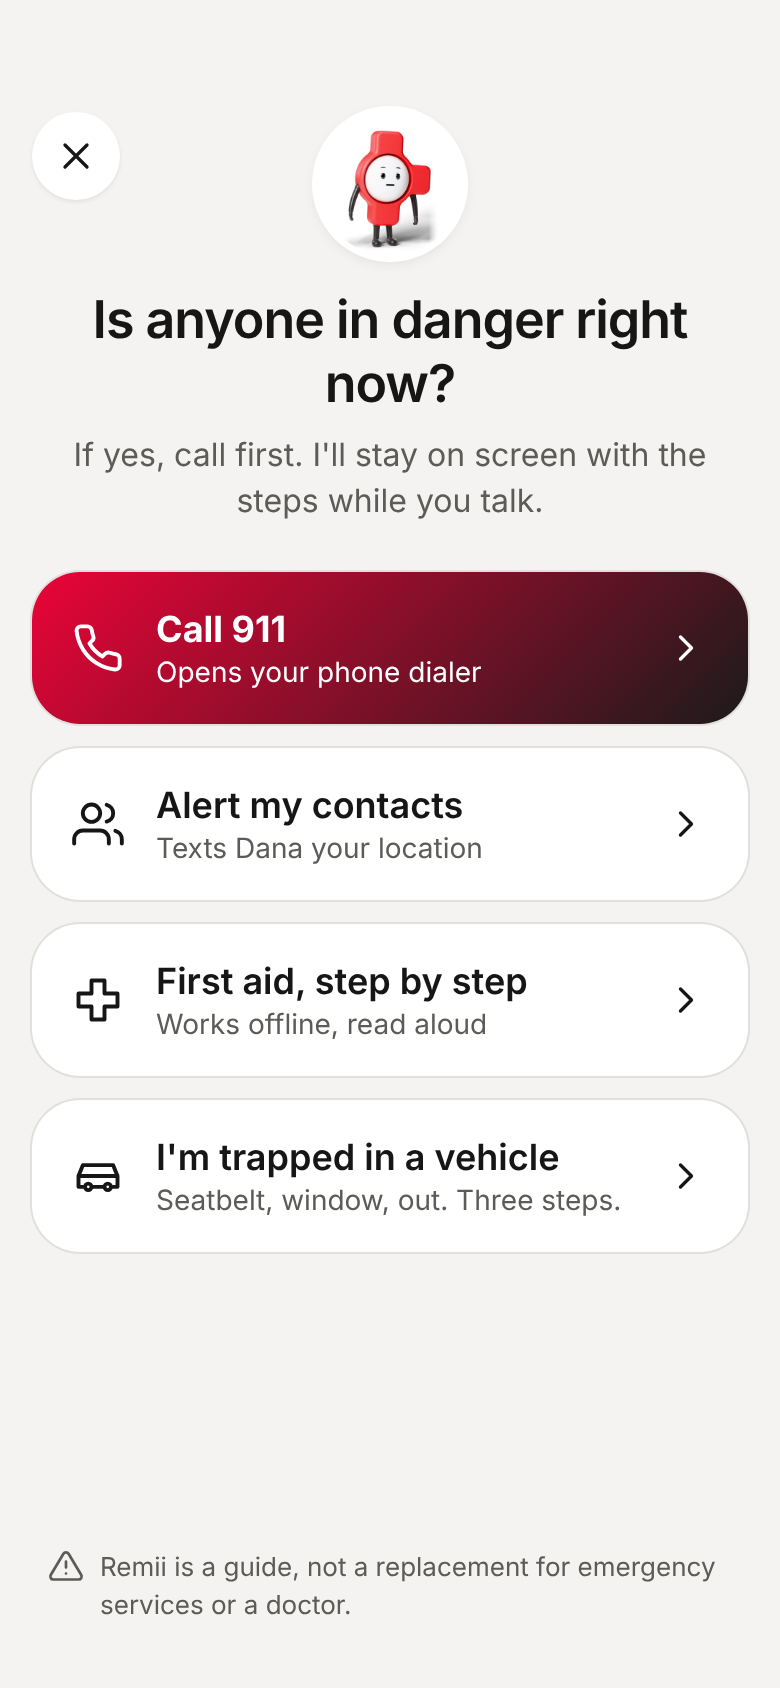
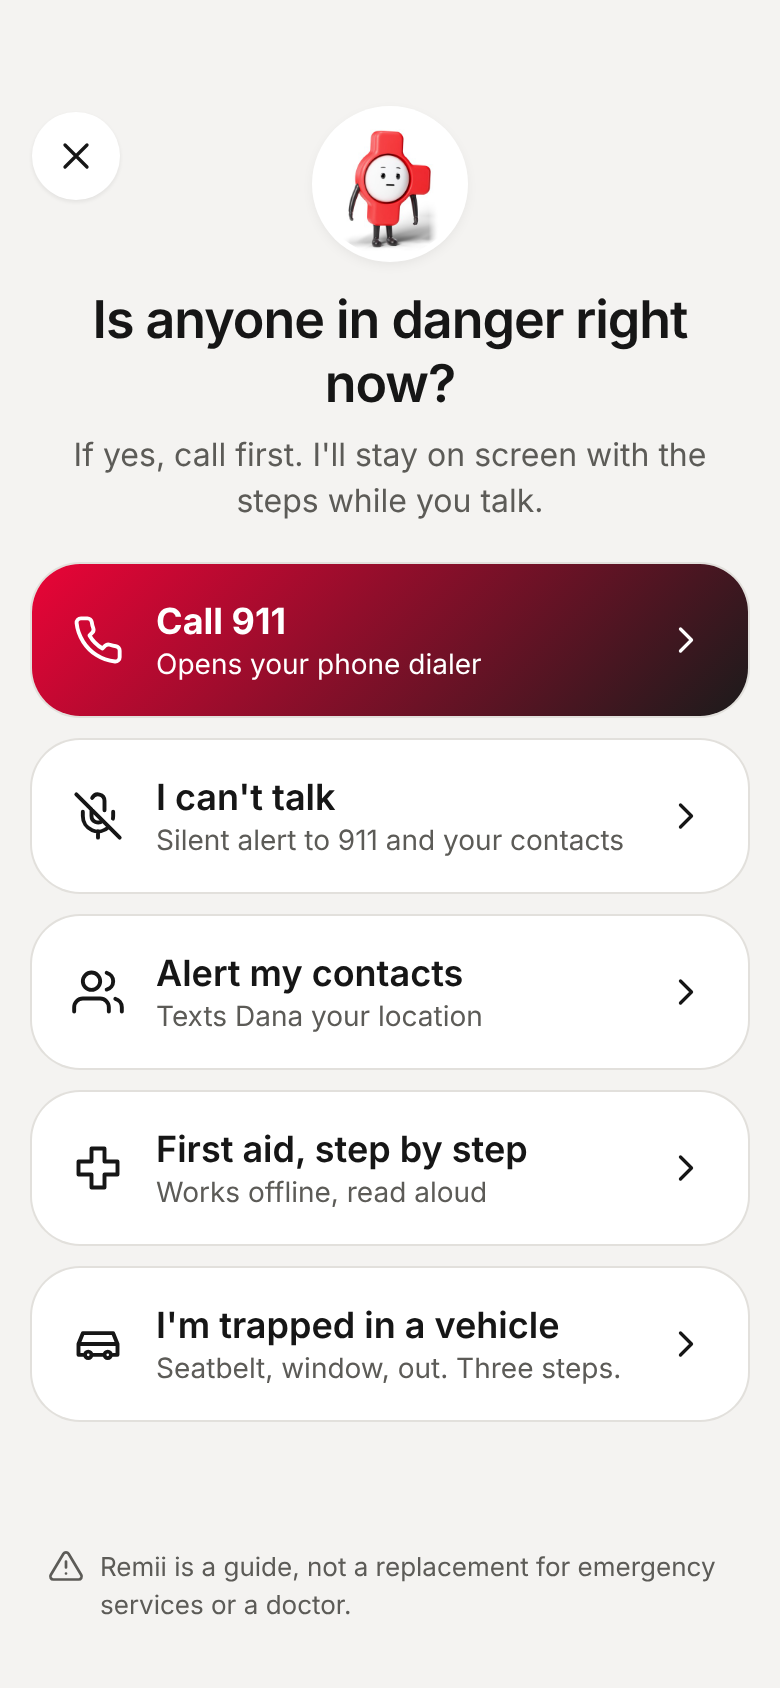
Add the "I can't talk" silent alert: design references, routes and plan
- docs/screens: SilentAlert, SilentChat, WatchSilent, WatchSilentSent, and
  the updated Emergency and WatchCall screens
- routes /sos/silent and /sos/silent/active as Phase 9 placeholders
- docs/build-plan.md: how the silent alert works, the rules it must keep and
  the open questions for RapidSOS
- docs/sitemap.md, TODO.md: new screens and the RapidSOS question

Claude-Session: https://claude.ai/code/session_01XE7msgpX1UMo2XFQv2K8ha

diff --git a/src/constants/routes.ts b/src/constants/routes.ts
@@ -37,6 +37,8 @@ export const APP_ROUTES: readonly AppRoute[] = [
   { route: '/sos', title: 'Emergency SOS', mockup: "docs/screens/Emergency.png", phase: 2 },
   { route: '/sos/guide/[id]', title: 'Emergency steps', mockup: null, phase: 2 },
   { route: '/sos/alert-sent', title: 'Contacts alerted', mockup: null, phase: 2 },
+  { route: '/sos/silent', title: 'Silent alert', mockup: "docs/screens/SilentAlert.png", phase: 9 },
+  { route: '/sos/silent/active', title: 'Silent alert: status and chat', mockup: "docs/screens/SilentChat.png", phase: 9 },
   { route: '/welcome', title: 'Welcome', mockup: null, phase: 6 },
   { route: '/welcome/permissions', title: 'Permissions', mockup: null, phase: 6 },
   { route: '/welcome/model', title: 'Offline setup', mockup: null, phase: 1 },

diff --git a/src/app/sos/silent/active.tsx b/src/app/sos/silent/active.tsx
@@ -1,0 +1,12 @@
+import { PlaceholderScreen } from '@/components/placeholder-screen';
+
+export default function SosSilentActiveScreen() {
+  return (
+    <PlaceholderScreen
+      title="Silent alert: status and chat"
+      route="/sos/silent/active"
+      mockup="docs/screens/SilentChat.png"
+      phase={9}
+    />
+  );
+}

diff --git a/src/app/sos/silent/index.tsx b/src/app/sos/silent/index.tsx
@@ -1,0 +1,12 @@
+import { PlaceholderScreen } from '@/components/placeholder-screen';
+
+export default function SosSilentScreen() {
+  return (
+    <PlaceholderScreen
+      title="Silent alert"
+      route="/sos/silent"
+      mockup="docs/screens/SilentAlert.png"
+      phase={9}
+    />
+  );
+}

diff --git a/docs/build-plan.md b/docs/build-plan.md
@@ -138,6 +138,63 @@ alongside Phase 5 or 6 if the store access arrives early.
 Until Phase 9 ships, nothing in the app, the store listing or remii.ai may say
 or imply that Remii sends data to 911.
 
+### "I can't talk": the silent alert (part of Phase 9)
+
+Designed 21 November 2026. Screens: `SilentAlert`, `SilentChat`, `WatchSilent`
+and `WatchSilentSent` in `docs/screens/`, plus a new row on Emergency SOS and
+on the watch's Call list.
+
+**What the person does**
+
+1. Opens SOS and taps "I can't talk", the second row, directly under Call 911.
+2. Sees exactly what will be sent: live location, name and phone, medical
+   notes, and which contacts get a text. Can tap a reason ("I'm hurt",
+   "Someone is hurting me", "Break-in", "Fire"). The reason is optional.
+3. Holds the button for 2 seconds. The hold is there to stop pocket presses.
+4. Lands on a status screen with four steps, each ticked only when it has
+   really happened: alert sent, contacts texted, a safety agent is checking,
+   passed to 911.
+5. Can answer the agent by tapping a quick reply or typing. Remii makes no
+   sound and no vibration while this screen is open.
+
+**How it works behind the screen**
+
+- The app sends the alert to the Remii server. The server raises a RapidSOS
+  digital alert and, separately, texts the emergency contacts through a
+  text-message provider. RapidSOS credentials and the text provider's key
+  live on the server only.
+- RapidSOS describes this kind of alert as checked by a live safety agent, who
+  then passes the data to the 911 center and can chat with it. The chat on the
+  status screen is with that agent. Whether a consumer app can skip the agent
+  step is an open question for RapidSOS.
+- Contact texts do not depend on RapidSOS. They can ship earlier, in Phase 2
+  or 3, as the existing "Alert my contacts" row.
+
+**Rules this feature must keep**
+
+- Call 911 stays first on the SOS screen and is on every silent-alert screen.
+  The silent alert never replaces or delays a call (rule 5).
+- It needs a data connection. With no signal the screen says "this can't send,
+  so call 911" and does not show a send button that will fail.
+- No step is shown as done until the server confirms it. In particular the
+  app never says 911 has the alert until RapidSOS reports it delivered.
+- Location, medical notes and contact details leave the phone only when the
+  person sends the alert, and the screen lists them first (rule 6). What is
+  shared is set up in advance under About you and can be edited from the
+  confirm screen.
+- Wording on these screens is fixed text, not generated (rule 3).
+
+**Questions to settle before building**
+
+- Does RapidSOS allow a consumer app to send alerts, and is its agent step
+  required? What does it cost per alert or per user?
+- Which text-message provider sends the contact texts, and who registers the
+  sender with US carriers?
+- How are accidental and false alerts cancelled, and what does the person see
+  if the agent cannot reach them?
+- Should the watch be able to send on its own over cellular, or only through
+  the phone?
+
 ## Open decisions
 
 See "Waiting on the owner" in `TODO.md`.

diff --git a/docs/sitemap.md b/docs/sitemap.md
@@ -99,9 +99,11 @@ Route names are the paths the app's router will use (Expo Router file names).
 
 | Route / state | Screen | Notes | Status |
 | --- | --- | --- | --- |
-| `/sos` | Emergency SOS | Call 911, alert contacts, first aid, trapped in a vehicle *(offline)* | [M] Emergency SOS |
+| `/sos` | Emergency SOS | Call 911, I can't talk, alert contacts, first aid, trapped in a vehicle *(offline)* | [M] Emergency SOS |
 | `/sos/guide/[id]` | Emergency steps | One reviewed step per screen, large type, read aloud | [ ] |
 | `/sos/alert-sent` | Contacts alerted | Confirms who was texted and with what location | [ ] |
+| `/sos/silent` | Silent alert | "I can't talk". Shows what will be sent (location, name and phone, medical notes, contacts), optional reason chips, hold to send, Call 911 instead. Needs a data connection and says so *(Phase 9, needs RapidSOS)* | [M] Silent alert — confirm and send |
+| `/sos/silent/active` | Silent alert: status and chat | Four status steps (alert sent, contacts texted, agent checking, passed to 911), text chat with the safety agent, quick replies, Call 911 always in the header. No sound or vibration | [M] Silent alert — status and chat |
 
 ### 1.5 Side menu and settings (opened from the menu button in any header)
 
@@ -145,7 +147,9 @@ Route names are the paths the app's router will use (Expo Router file names).
 | Answer | Short answer; Steps and read-aloud *(offline for saved guides)* | Listening, Quick asks | [M] |
 | One step at a time | Step counter, progress bar, one instruction, Done | Answer, Alert, Guides | [M] |
 | Quick asks | Power is out, Car trouble, Someone is hurt, I'm lost | Home, chat button | [M] |
-| Call | Call 911, Call ICE 1 (first emergency contact), Talk to Remii | Home, phone button | [M] |
+| Call | Call 911, I can't talk, Call ICE 1 (first emergency contact), Talk to Remii | Home, phone button | [M] |
+| Silent alert, hold to send | Says what is sent; Hold to send, or cancel *(Phase 9)* | Call, I can't talk | [M] |
+| Silent alert sent | Sent time, agent's question with Yes and No, Call 911 | Silent alert, hold to send | [M] |
 | Scheduled check-in | Question with Yes and No, plan next steps | Notification | [M] |
 | Alert | Advisory text with What to do | Notification | [M] |
 | Offline guides | Guides stored on the watch | Scroll down from Home | [M] |
@@ -159,5 +163,6 @@ Route names are the paths the app's router will use (Expo Router file names).
 1. **Outage at night (offline).** Chat → Remii's steps → user reports back → check-in scheduled → next morning notification → Chat.
 2. **Car kit (online).** Chat or Ideas → product cards → resqme.com → Add all to my Vehicle plan → Plans.
 3. **Emergency.** SOS button → Emergency SOS → Call 911 or Emergency steps → Contacts alerted.
+3a. **Can't speak.** SOS button → Emergency SOS → I can't talk → hold to send → status and chat with the safety agent. Call 911 stays one tap away on every step.
 4. **Preparing for a trip.** Briefing item → Discuss → Library → guides synced to watch → Watch, Offline guides.
 5. **Building trust.** Remii profile → About you → Memory → erase an item.

diff --git a/TODO.md b/TODO.md
@@ -95,6 +95,7 @@ The page is in `landing/`. Hosting steps are in `landing/README.md`.
 - [ ] How Remii makes money, which decides how product links are disclosed
 - [ ] Remi or Remii as the single spelling
 - [ ] Whether a Wear OS watch app is wanted
+- [ ] Ask RapidSOS whether a consumer app can send a silent, no-voice alert and whether their safety-agent step is required (the "I can't talk" flow in `docs/build-plan.md`)
 - [ ] Apply to RapidSOS as a Tech Partner (developer.rapidsos.com). Ask about pricing, certification and whether a monitoring centre is required. Long lead time; Phase 9 cannot start without it
 - [ ] Storefront API access to resqme's Shopify store for Remii (Phase 7), and confirmation the store's checkout is not on the old `checkout.liquid`
 - [ ] Which hazards and countries come first for live event tracking (Phase 8), and confirm it means live emergencies near the user rather than app analytics
